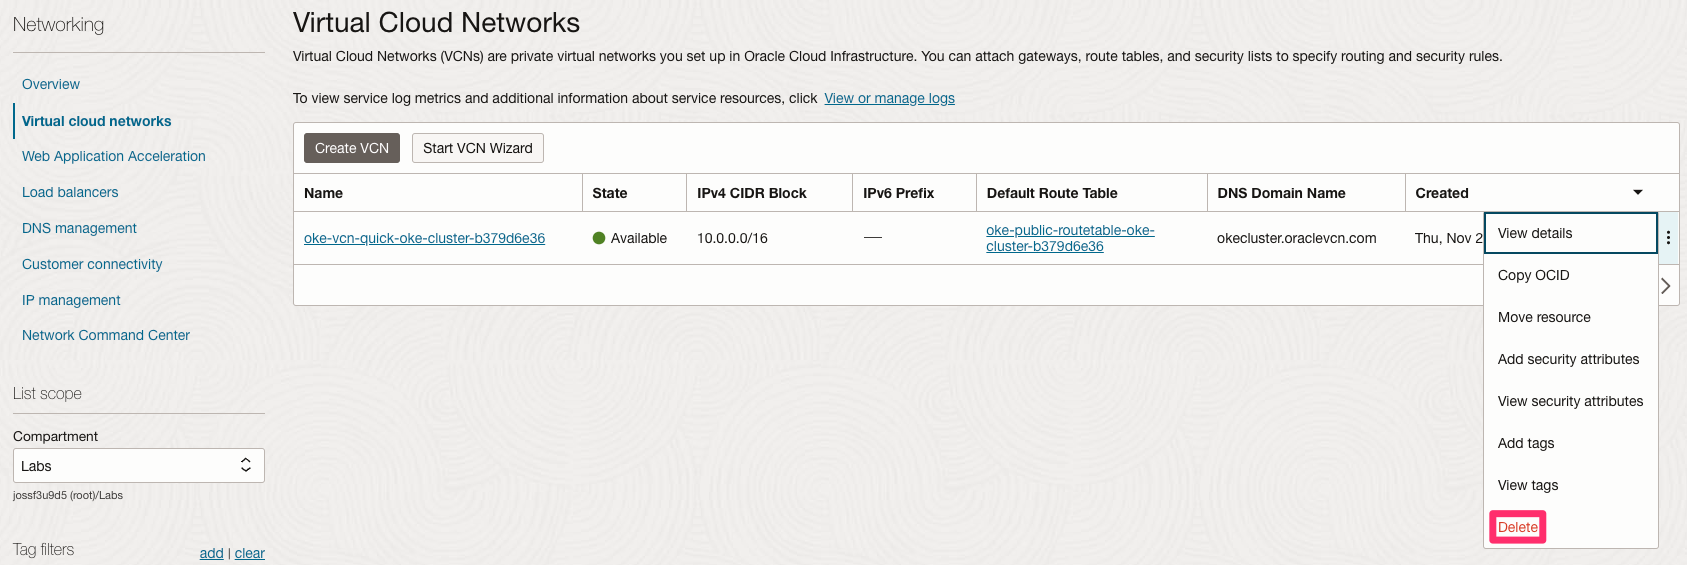
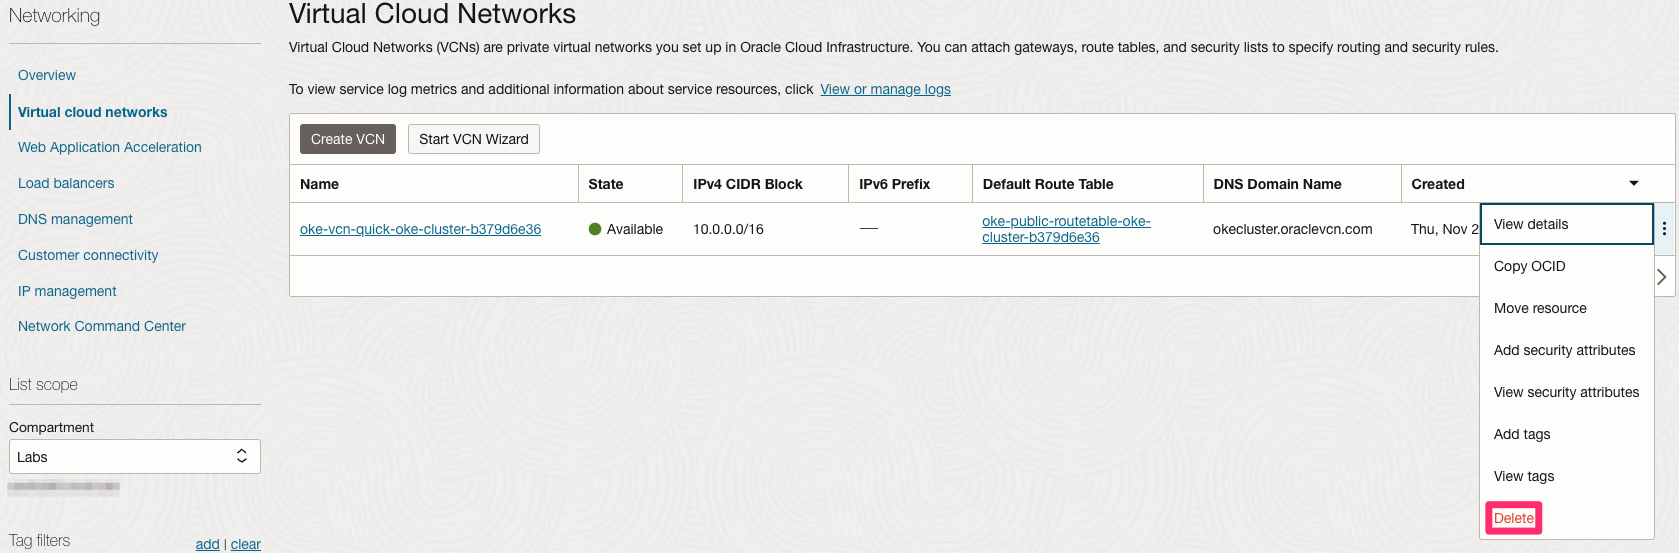
removed root from images

diff --git a/oke-opencost/provision/provision.md b/oke-opencost/provision/provision.md
@@ -47,7 +47,7 @@ A Kubernetes cluster consists of master and worker nodes running applications. I
 
 5. Click **Next**.
 
-	![Create cluster](images/sample5.png)
+	![Create cluster](images/sample4.png)
 
 6. Click **Create Cluster**.
 
